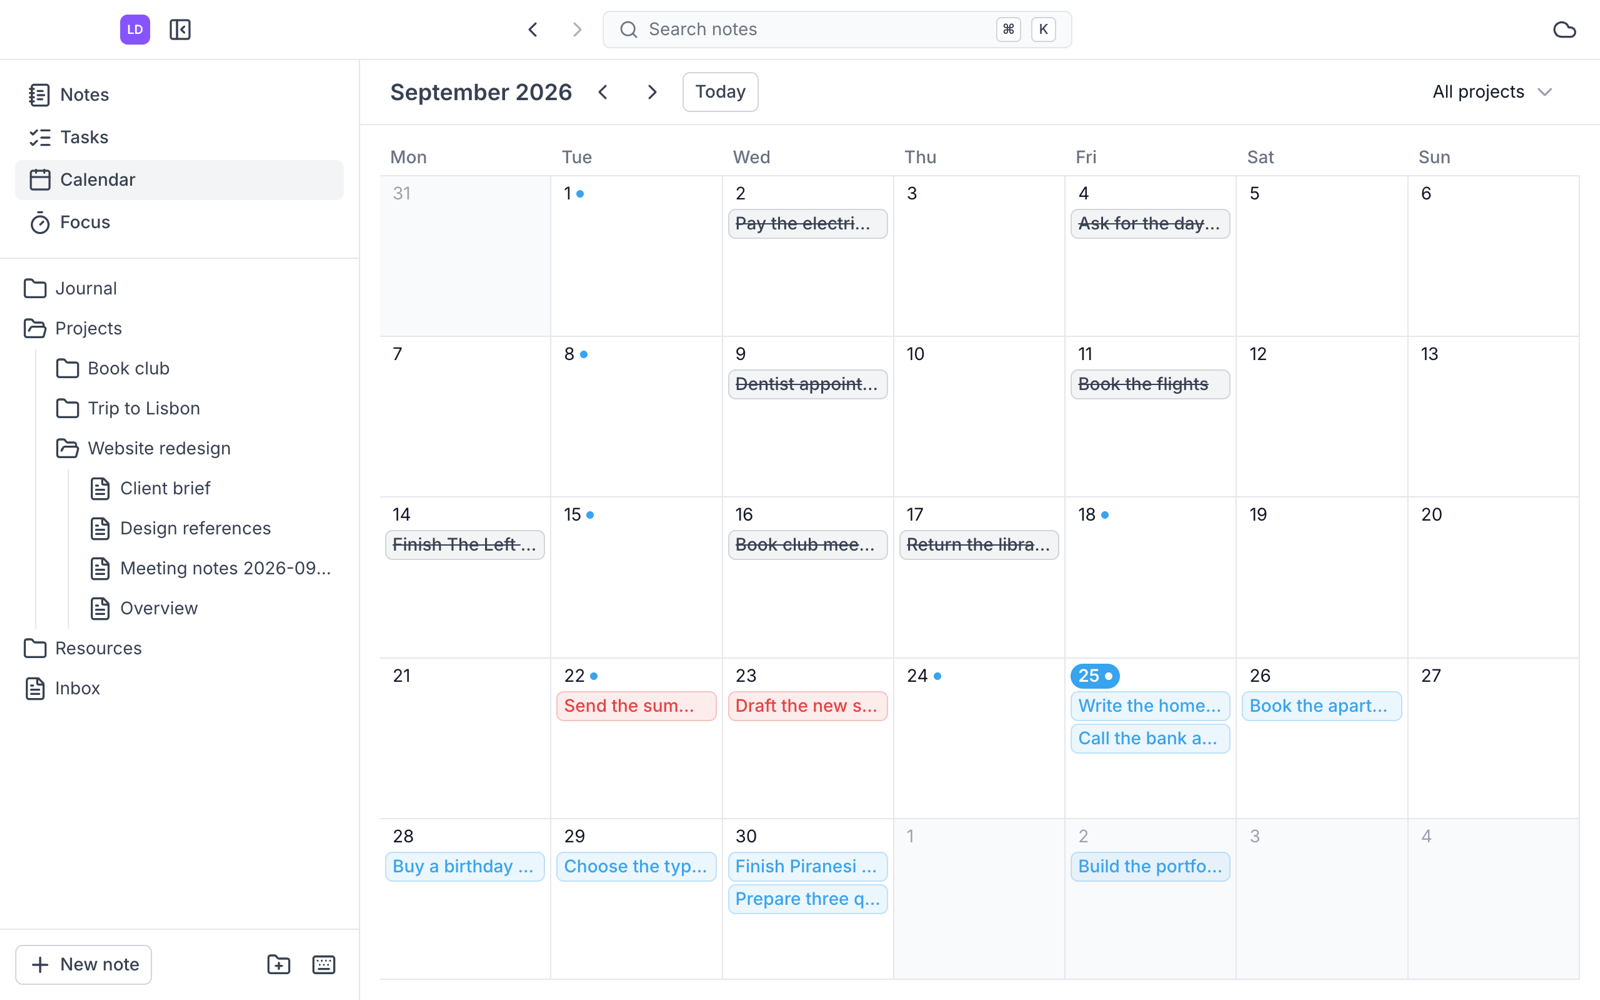
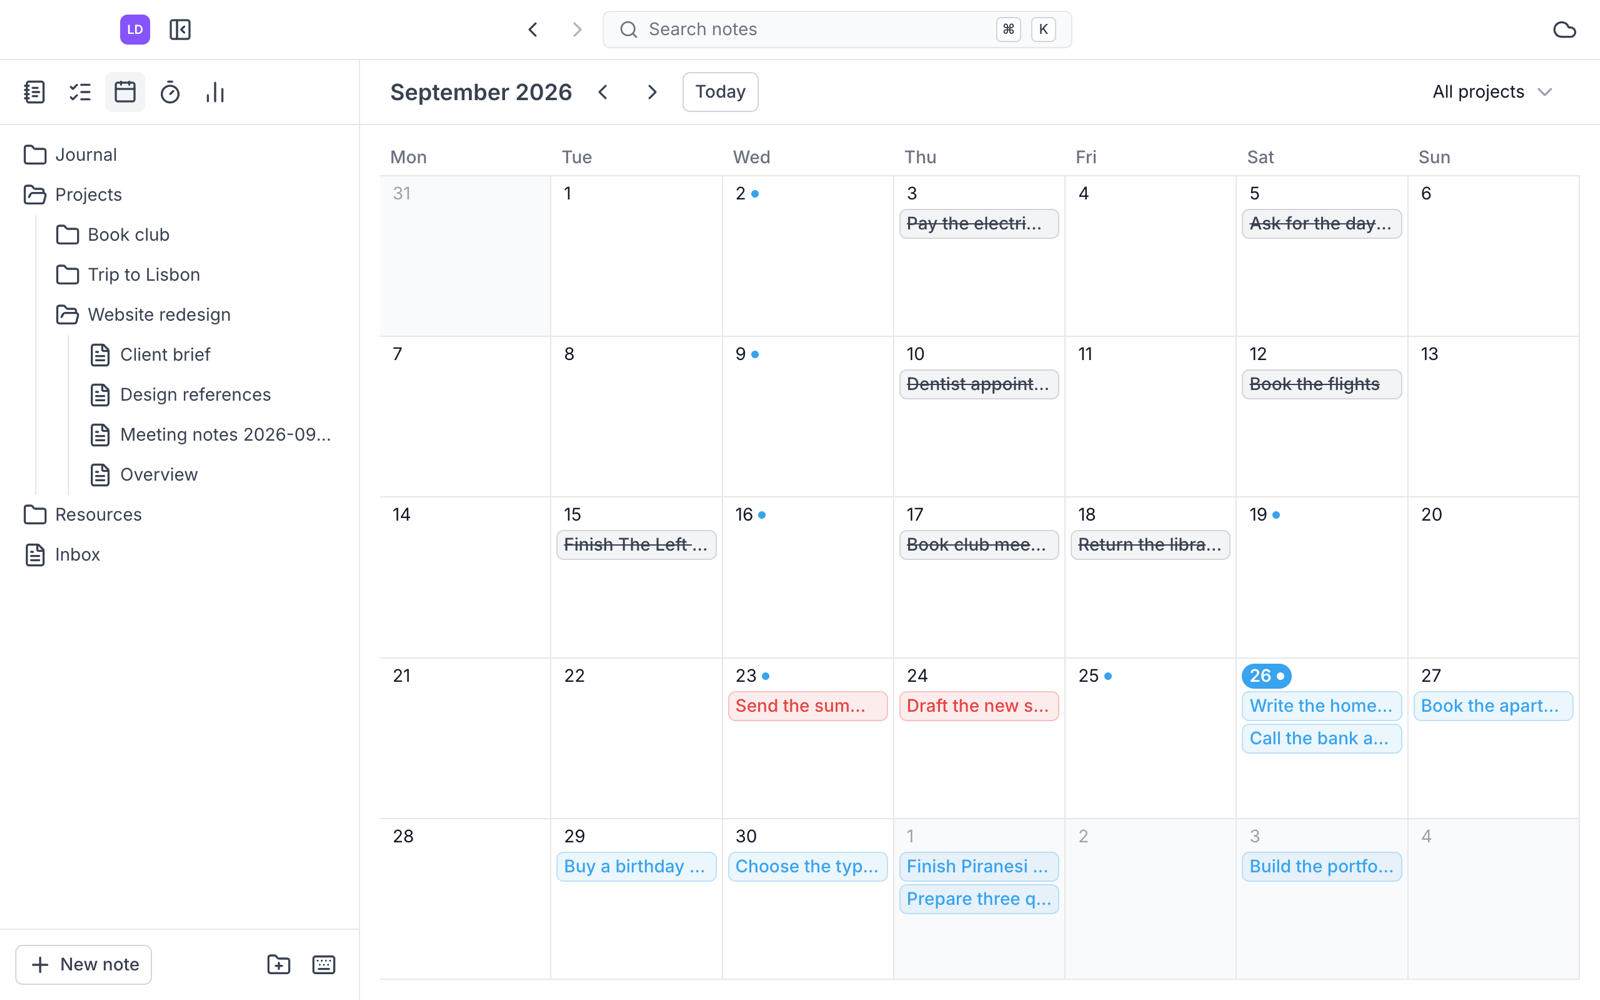
Update the README and screenshots for 0.2.0
Add the focus history section and its screenshot, retake the screenshots with the new
sidebar, and update the focus limitations.

diff --git a/README.md b/README.md
@@ -20,8 +20,8 @@ Get the latest version from the [Releases](https://github.com/martinloic/luma-re
 
 Your notes are Markdown files in a folder you choose (a vault), browsed as a tree. The
 editor saves as you type and supports task lists, tables and `[[links]]` between notes,
-with backlinks. The files stay readable in any other editor, and an existing Obsidian
-vault can be opened as is.
+with backlinks. A handle next to each line moves it elsewhere in the note. The files stay
+readable in any other editor, and an existing Obsidian vault can be opened as is.
 
 ### Projects and tasks
 
@@ -50,6 +50,14 @@ spent is added to the task line itself (`⏱ 1h15m`).
 
 ![The focus view during a session](screenshots/focus.png)
 
+### Focus history
+
+Every focus session is kept in the vault. The History view shows, for a day, a week or a
+month, the focus time per project, the tasks done and the sessions of each day. A click on
+a session or a task opens its note at the task.
+
+![The history of a week, with the time per project, the tasks done and the sessions](screenshots/history.png)
+
 ### Search and shortcuts
 
 `⌘K` searches the names and the contents of the notes, and runs actions such as a new
@@ -60,8 +68,9 @@ task or a new project. Keyboard shortcuts cover the frequent actions.
 ### GitHub sync
 
 The vault can be synchronized both ways with a GitHub repository, through the Git of your
-Mac. Conflicts never lose anything: both versions are kept. It requires Git and a GitHub
-authentication already set up on your Mac (SSH key or `gh auth login`).
+Mac. Each sync commit lists the files it changed. Conflicts never lose anything: both
+versions are kept. It requires Git and a GitHub authentication already set up on your Mac
+(SSH key or `gh auth login`).
 
 ### English and French
 
@@ -75,8 +84,9 @@ Luma is young, and some things are not there (yet):
 - **Calendar**: month view only, no week or day view. No events with times, no Google,
   Outlook or iCloud calendars, no drag and drop of tasks between days.
 - **Tasks**: no recurring tasks, no start or scheduled dates, no Kanban view.
-- **Focus**: 15, 25 or 50 minutes only, no long breaks or sounds. Only the total time per
-  task is kept: no session history or reports.
+- **Focus**: 15, 25 or 50 minutes only, no long breaks, a single end chime. Sessions
+  cannot be edited or entered by hand, and the history has no charts or export. The time
+  spent before version 0.2.0 is not in the history.
 - **Links**: embedded notes (`![[note]]`) and block links are kept in the file but not
   displayed. Standard Markdown links to notes are not followed. No graph view.
 - **Renaming outside Luma**: renaming or moving notes in Finder or through Git does not
